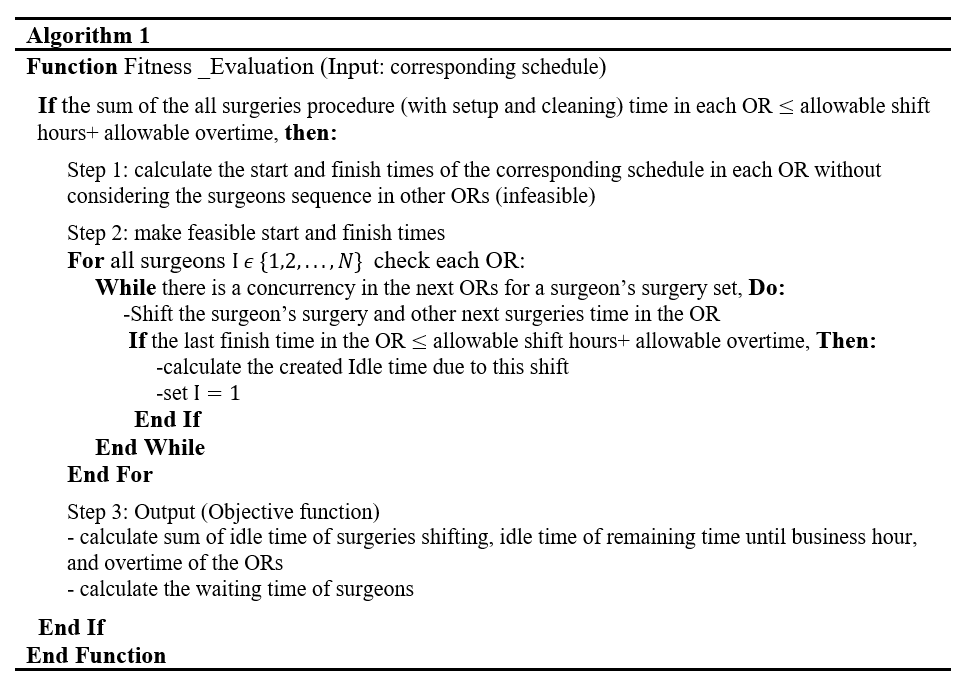
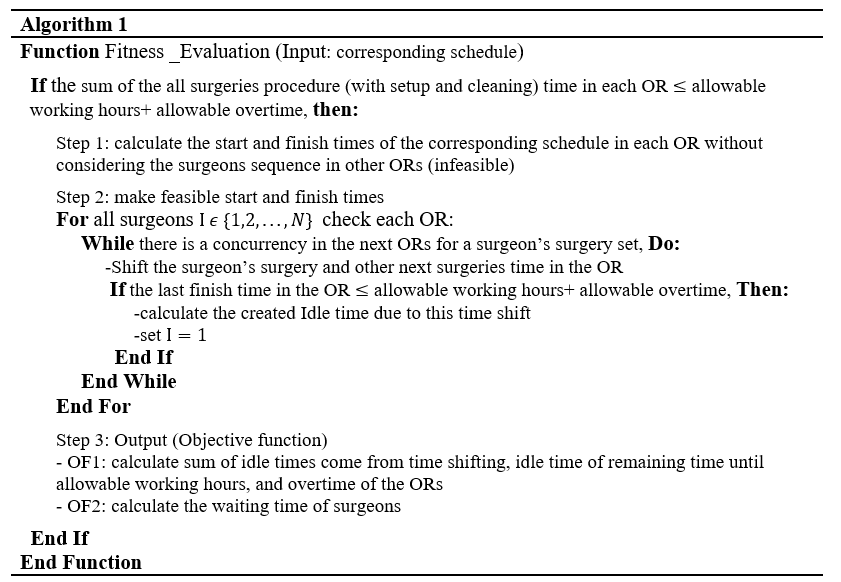
4-3ch3

Changed region(s): [[0.0, 0.0, 0.9893, 0.7113], [0.0, 0.7113, 0.9893, 0.9897]]

diff --git a/folder/ORS.html b/folder/ORS.html
@@ -84,7 +84,7 @@
         <h4>-Generating  feasible solutions efficiently: </br> </br></h4>
           <h5>
 
-          The main challenge in developing the cost function of NSGA-II was the concurrency of surgeon’s surgery in the different rooms. It is impossible shifting change only the operating time because other surgeons operating time and their idle times are changed.
+            The main challenge in the fitness evaluation of NSGA-II is the concurrency of surgeon's surgery in the different rooms. It is impossible to shift only a surgeon's operating time to prevent this problem because other surgeons operating times and their idle times are changed and the final result of fitness evaluation would not be correct !!! this was a big challenge for us.
         </br> </br>
           Dealing with this difficulty, the Following algorithm is developed.
       </h5>
